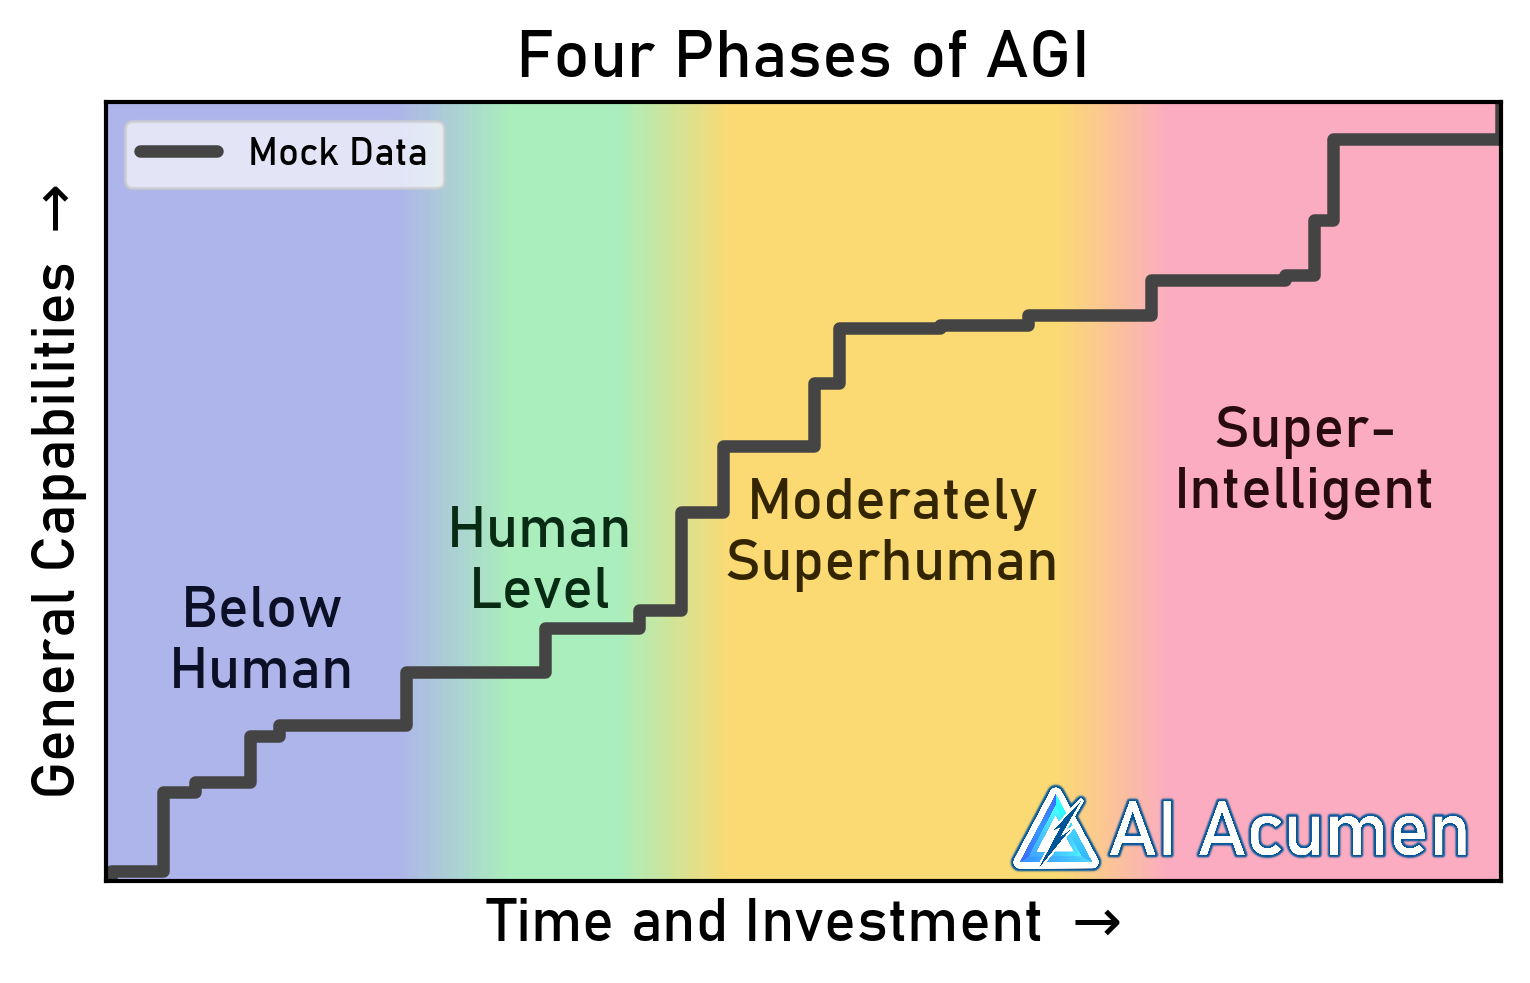
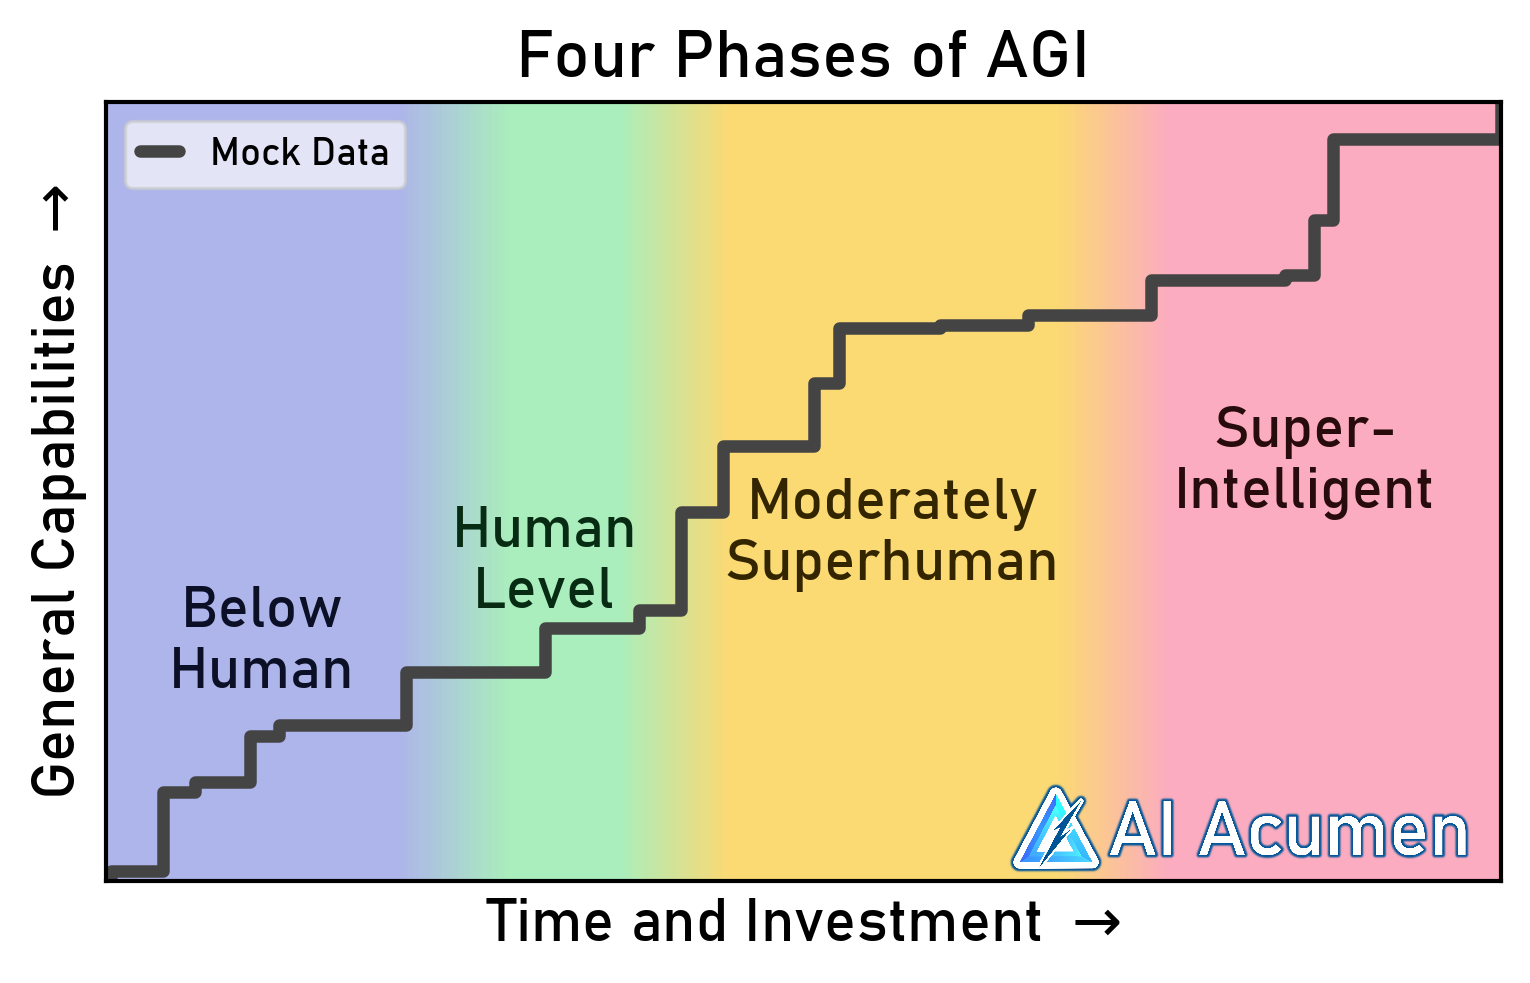
Tweak plot further

Changed region(s): [[0.1229, 0.1221, 0.3072, 0.2136], [0.2765, 0.5188, 0.4301, 0.6409]]

diff --git a/Graphs/four_phases_of_agi.py b/Graphs/four_phases_of_agi.py
@@ -28,13 +28,13 @@ def main() -> None:
         "Moderately\nSuperhuman",
         "Super-\nIntelligent",
     ]
-    # https://coolors.co/aeb5ea-aaeebd-fbda74-fbadaf
+    # https://coolors.co/aeb5ea-aaeebd-fbda74-fbacc0
     phase_colors = ["#AEB5EA", "#AAEEBD", "#FBDA74", "#FBACC0"]
     # https://coolors.co/0c1027-082b13-332500-280b0c
     text_colors = ["#0C1027", "#082B13", "#332500", "#280B0C"]
     phase_widths = [2.25, 1.25, 2.5, 2.25]
     phase_label_heights = [0.325, 0.425, 0.46, 0.55]
-    phase_label_x_offsets = [0, -0.15, 0, 0]
+    phase_label_x_offsets = [0, -0.125, 0, 0]
     solid_fraction = 0.75  # Fraction of each band that should be solid color
 
     plt.figure(figsize=chart_utils.FIGSIZE_DEFAULT)
@@ -106,13 +106,10 @@ def main() -> None:
         loc="upper left",
         fontsize=chart_utils.LABELSIZE_DEFAULT * 0.66,
         # facecolor="white",
-        # Less horizontal separation
         labelspacing=0.2,
-        # Less padding
         # borderpad=0.2,
-        # Transparency
         framealpha=0.66,
-        # Smaller line indicator
+        handlelength=1,
     )
 
     # Add logo overlay
